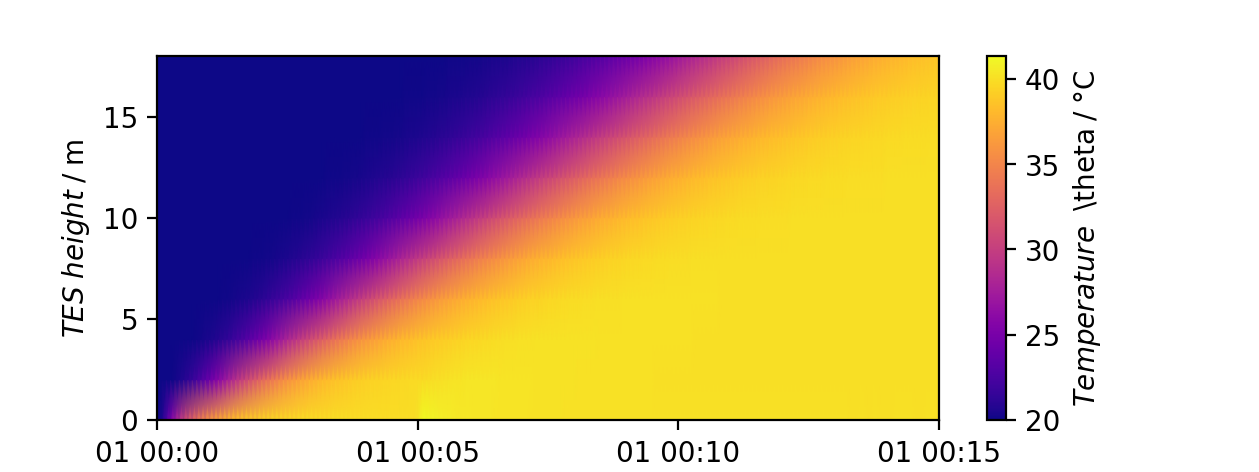
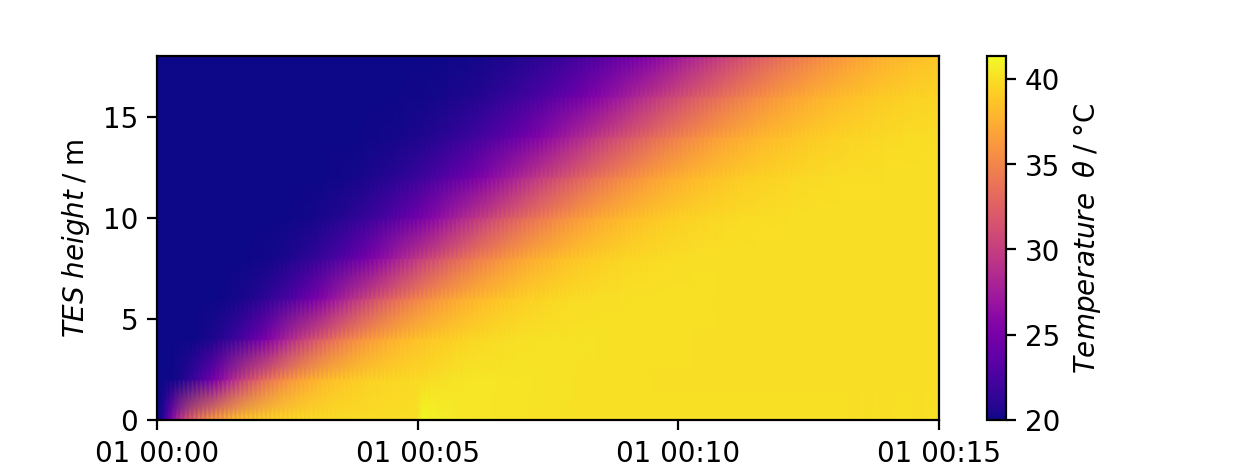
examples updated

Changed region(s): [[0.8364, 0.1483, 0.8674, 0.8602]]

diff --git a/doc/examples/basic_loop_w_stable_pid.py b/doc/examples/basic_loop_w_stable_pid.py
@@ -15,11 +15,11 @@ theta_high = pd.Series(
 theta_high.iloc[300:] = 85.0
 
 # create simulation environment
-my_sim_a = ms.Models()
+my_sim = ms.Models()
 # set disksaving, simulatiion timeframe and solver
-my_sim_a.set_disksaving(save=True, start_date='infer', sim_name='sim_a')
-my_sim_a.set_timeframe(timeframe=900, adaptive_steps=True)
-my_sim_a.set_solver(solver='heun', allow_implicit=False)
+my_sim.set_disksaving(save=True, start_date='infer', sim_name='sim_a')
+my_sim.set_timeframe(timeframe=900, adaptive_steps=True)
+my_sim.set_solver(solver='heun', allow_implicit=False)
 
 # define pipe specifications for all pipes and ports
 pipe_specs = {'all': {'pipe_type': 'EN10255_medium', 'DN': 'DN25'}}
@@ -34,7 +34,7 @@ general_specs = dict(
 )
 
 # add parts
-my_sim_a.add_part(  # add pipe_in with the valve to control
+my_sim.add_part(  # add pipe_in with the valve to control
     part=ms.ap.PipeWith3wValve,
     name='pipe_in',
     length=2.0,  # in meters
@@ -45,7 +45,7 @@ my_sim_a.add_part(  # add pipe_in with the valve to control
     upper_limit=1.0,  # upper limit for the valve, can be 0 < x <= 1
     **general_specs,
 )
-my_sim_a.add_part(
+my_sim.add_part(
     part=ms.ap.Tes,  # add a thermal energy storage
     name='TES',
     volume=0.5,  # volume in m**3
@@ -55,7 +55,7 @@ my_sim_a.add_part(
     new_ports=None,  # add no additional ports/connectors
     **general_specs,
 )
-my_sim_a.add_part(
+my_sim.add_part(
     part=ms.ap.PipeWithPump,  # add a pipe with a pump
     name='pipe_out',
     length=1.0,
@@ -68,30 +68,30 @@ my_sim_a.add_part(
 
 # add open ports (connections to ambient conditions, connections crossing the
 # control volume of the simulation environment)
-my_sim_a.add_open_port('BC_theta_low', constant=True, temperature=theta_low)
-my_sim_a.add_open_port('BC_theta_high', constant=False, temperature=theta_high)
-my_sim_a.add_open_port('BC_out', constant=True, temperature=theta_low)
+my_sim.add_open_port('BC_theta_low', constant=True, temperature=theta_low)
+my_sim.add_open_port('BC_theta_high', constant=False, temperature=theta_high)
+my_sim.add_open_port('BC_out', constant=True, temperature=theta_low)
 
 # connect parts and also boundary conditions to parts
-my_sim_a.connect_ports(
+my_sim.connect_ports(
     first_part='BoundaryCondition',
     first_port='BC_theta_low',
     scnd_part='pipe_in',
     scnd_port='B',
 )
-my_sim_a.connect_ports(
+my_sim.connect_ports(
     first_part='BoundaryCondition',
     first_port='BC_theta_high',
     scnd_part='pipe_in',
     scnd_port='A',
 )
-my_sim_a.connect_ports(
+my_sim.connect_ports(
     first_part='pipe_in', first_port='AB', scnd_part='TES', scnd_port='in',
 )
-my_sim_a.connect_ports(
+my_sim.connect_ports(
     first_part='TES', first_port='out', scnd_part='pipe_out', scnd_port='in',
 )
-my_sim_a.connect_ports(
+my_sim.connect_ports(
     first_part='pipe_out',
     first_port='out',
     scnd_part='BoundaryCondition',
@@ -99,7 +99,7 @@ my_sim_a.connect_ports(
 )
 
 # add and set PID control to control the 3-way-valve
-my_sim_a.add_control(
+my_sim.add_control(
     ms.ap.PID,
     name='pid_valve',
     actuator='pipe_in',  # controlled actuator
@@ -126,11 +126,11 @@ my_sim_a.add_control(
 
 # initialize simulation (set up parts and controllers, preallocate arrays,
 # calculate topology...)
-my_sim_a.initialize_sim()
-my_sim_a.start_sim()
+my_sim.initialize_sim()
+my_sim.start_sim()
 
 # add meters:
-meters = ms.Meters(my_sim_a, start_time=theta_high.index[0])
+meters = ms.Meters(my_sim, start_time=theta_high.index[0])
 meters.temperature(name='theta_mix', part='pipe_in', cell=-1)
 meters.heat_meter(
     name='hm',
@@ -144,7 +144,7 @@ meters.massflow(name='mflow_AB', part='pipe_in', cell=-1)
 
 # return results as a dictionary of kind
 # {part:{'res': temperatures, 'dm': massflows}}
-results = my_sim_a.return_stored_data()
+results = my_sim.return_stored_data()
 
 
 # %% plot results
@@ -206,7 +206,7 @@ ms.plotting.heatmap_from_df(
     ax=ax_tes,
     ylabel=('TES height', 'm'),
     cbar=True,
-    cbar_label=(r'Temperature\; $\theta$', '°C'),
+    cbar_label=(r'Temperature\; \theta', '°C'),
     vmin=20.0,
     plt_kwds={'shading': 'gouraud'},
 )

diff --git a/doc/examples/basic_loop_w_instable_pid.py b/doc/examples/basic_loop_w_instable_pid.py
@@ -206,7 +206,7 @@ ms.plotting.heatmap_from_df(
     ax=ax_tes,
     ylabel=('TES height', 'm'),
     cbar=True,
-    cbar_label=(r'Temperature\; $\theta$', '°C'),
+    cbar_label=(r'Temperature\; \theta', '°C'),
     vmin=20.0,
     plt_kwds={'shading': 'gouraud'},
 )

diff --git a/README.md b/README.md
@@ -172,11 +172,11 @@ theta_high.iloc[300:] = 85.0
 Now create an instance of the simulation environment, and set some basic options:
 ```python
 # create simulation environment
-my_sim_a = ms.Models()
+my_sim = ms.Models()
 # set disksaving, simulatiion timeframe and solver
-my_sim_a.set_disksaving(save=True, start_date='infer', sim_name='sim_a')
-my_sim_a.set_timeframe(timeframe=900, adaptive_steps=True)
-my_sim_a.set_solver(solver='heun', allow_implicit=False)
+my_sim.set_disksaving(save=True, start_date='infer', sim_name='sim_a')
+my_sim.set_timeframe(timeframe=900, adaptive_steps=True)
+my_sim.set_solver(solver='heun', allow_implicit=False)
 ```
 
 Next define specifications for pipes and the ports at each pipe. Dimensions can be set individually for each port. In this case all ports and parts share the same specifications.
@@ -196,7 +196,7 @@ general_specs = dict(
 
 Now add the parts to the simulation environment:
 ```python
-my_sim_a.add_part(  # add pipe_in with the valve to control
+my_sim.add_part(  # add pipe_in with the valve to control
     part=ms.ap.PipeWith3wValve,
     name='pipe_in',
     length=2.0,  # in meters
@@ -207,7 +207,7 @@ my_sim_a.add_part(  # add pipe_in with the valve to control
     upper_limit=1.0,  # upper limit for the valve, can be 0 < x <= 1
     **general_specs,
 )
-my_sim_a.add_part(
+my_sim.add_part(
     part=ms.ap.Tes,  # add a thermal energy storage
     name='TES',
     volume=0.5,  # volume in m**3
@@ -217,7 +217,7 @@ my_sim_a.add_part(
     new_ports=None,  # add no additional ports/connectors
     **general_specs,
 )
-my_sim_a.add_part(
+my_sim.add_part(
     part=ms.ap.PipeWithPump,  # add a pipe with a pump
     name='pipe_out',
     length=1.0,
@@ -233,32 +233,32 @@ Add open ports (connections to ambient conditions, connections crossing the
 control volume of the simulation environment, other boundary conditions (BC)).
 Open ports can be either constant or time series based.
 ```python
-my_sim_a.add_open_port('BC_theta_low', constant=True, temperature=theta_low)
-my_sim_a.add_open_port('BC_theta_high', constant=False, temperature=theta_high)
-my_sim_a.add_open_port('BC_out', constant=True, temperature=theta_low)
+my_sim.add_open_port('BC_theta_low', constant=True, temperature=theta_low)
+my_sim.add_open_port('BC_theta_high', constant=False, temperature=theta_high)
+my_sim.add_open_port('BC_out', constant=True, temperature=theta_low)
 ```
 
 Connect parts at ports and also boundary conditions to parts:
 ```python
-my_sim_a.connect_ports(
+my_sim.connect_ports(
     first_part='BoundaryCondition',
     first_port='BC_theta_low',
     scnd_part='pipe_in',
     scnd_port='B',
 )
-my_sim_a.connect_ports(
+my_sim.connect_ports(
     first_part='BoundaryCondition',
     first_port='BC_theta_high',
     scnd_part='pipe_in',
     scnd_port='A',
 )
-my_sim_a.connect_ports(
+my_sim.connect_ports(
     first_part='pipe_in', first_port='AB', scnd_part='TES', scnd_port='in',
 )
-my_sim_a.connect_ports(
+my_sim.connect_ports(
     first_part='TES', first_port='out', scnd_part='pipe_out', scnd_port='in',
 )
-my_sim_a.connect_ports(
+my_sim.connect_ports(
     first_part='pipe_out',
     first_port='out',
     scnd_part='BoundaryCondition',
@@ -270,7 +270,7 @@ Add and set PID control to control the 3-way-valve.
 Nomenclature: setpoint (SP), control variable (CV), process variable (PV).
 For this, the critical coefficient `Kp_crit` causing permanent oscillations and the period of the oscillations `T_crit` have to be estimated before. This can be done by increasing `Kp` of a PID controller set to `loop_tuning='manual'` and `terms='P'` until oscillations after a step start pertaining.
 ```python
-my_sim_a.add_control(
+my_sim.add_control(
     ms.ap.PID,
     name='pid_valve',
     actuator='pipe_in',  # controlled actuator
@@ -299,13 +299,13 @@ my_sim_a.add_control(
 Initialize simulation (set up parts and controllers, preallocate arrays,
 calculate topology...) and run it:
 ```python
-my_sim_a.initialize_sim()
-my_sim_a.start_sim()
+my_sim.initialize_sim()
+my_sim.start_sim()
 ```
 
 Add meters:
 ```python
-meters = ms.Meters(my_sim_a, start_time=theta_high.index[0])
+meters = ms.Meters(my_sim, start_time=theta_high.index[0])
 meters.temperature(name='theta_mix', part='pipe_in', cell=-1)
 meters.heat_meter(
     name='hm',
@@ -320,7 +320,7 @@ meters.massflow(name='mflow_AB', part='pipe_in', cell=-1)
 
 return results as a dictionary of kind `{part:{'res': temperatures, 'dm': massflows}}`:
 ```python
-results = my_sim_a.return_stored_data()
+results = my_sim.return_stored_data()
 ```
 
 For plotting of the results, define the plot index:
@@ -391,6 +391,46 @@ Which yields the temperature of the TES over the time:
 
 
 ### Instable PID controller
+Now we'll try what happens when we switch to manual loop tuning and increase the `Kp` coefficient to be slighty `Kp > Kp_crit`.
+Furthermore we add small integral and derivative terms `Ki` and `Kd`.
+
+You can find the full executable example as a Python script at [doc/examples/basic_loop_w_instable_pid.py](doc/examples/basic_loop_w_instable_pid.py).
+
+The only change compared to the previous stable PID example is within the controller construction in the following lines:
+```python
+my_sim.add_control(
+    ms.ap.PID,
+    name='pid_valve',
+    actuator='pipe_in',  # controlled actuator
+    process_CV_mode='part_specific',  # allow post-processing of CV in part
+    CV_saturation=(0.0, 1.0),  # clip CV
+    controlled_part='pipe_in',  # part where the PV is found
+    controlled_port=-1,  # port or cell where the PV is found in its part
+    reference_part='none',  # use another part as source of the SP
+    setpoint=sp_pid,  # use defined constant value
+    sub_controller=False,  # controller action is not depending on another ctrl
+    off_state=0.0,  # which value shows that the controller is off?
+    time_domain='discrete',  # integral and derivative calculation type
+    deadtime=0.0,  # in seconds
+    slope=(-0.1, 0.1),  # in units/s
+    invert=False,  # invert action to allow reversed operation
+    terms='PID',  # which coefficients to use
+    loop_tuning='ziegler-nichols',  # semi-automatic loop tuning or manual?
+    rule='classic',  # loop tuning rule
+    Kp_crit=0.025,  # critical Kp value
+    T_crit=5.0,  # period of the oscillations in seconds
+    filter_derivative=False,  # low pass filter of the derivative term
+    anti_windup=1.0,  # anti windup for the integral term
+)
+```
+
+Now the PID is stable at first and reaches equilibrium even faster than the stable PID. But this comes at the cost of persistent instability once a larger step in the PV is introduced, such as after 5 minutes:
+![Instable valve temperature and massflow](/doc/examples/figures/basic_example_valve_instable.svg)
+
+Since the amplitude of the oscillations is still small and the product of the period with the massflow small compared to the TES volume, the effect on the temperature in the TES is negligible:
+![TES temperature instable](/doc/examples/figures/basic_example_tes_instable.png)
+
+Assuming in more complex systems other controllers are relying on a stable output of this controller, even oscillations this small my cause a chain reaction leading to an undesired behavior of the complete system. Furthermore instabilities may cause the solver to require much smaller steps to solve the differential equations.
 
 ### Bang-bang controller
 
